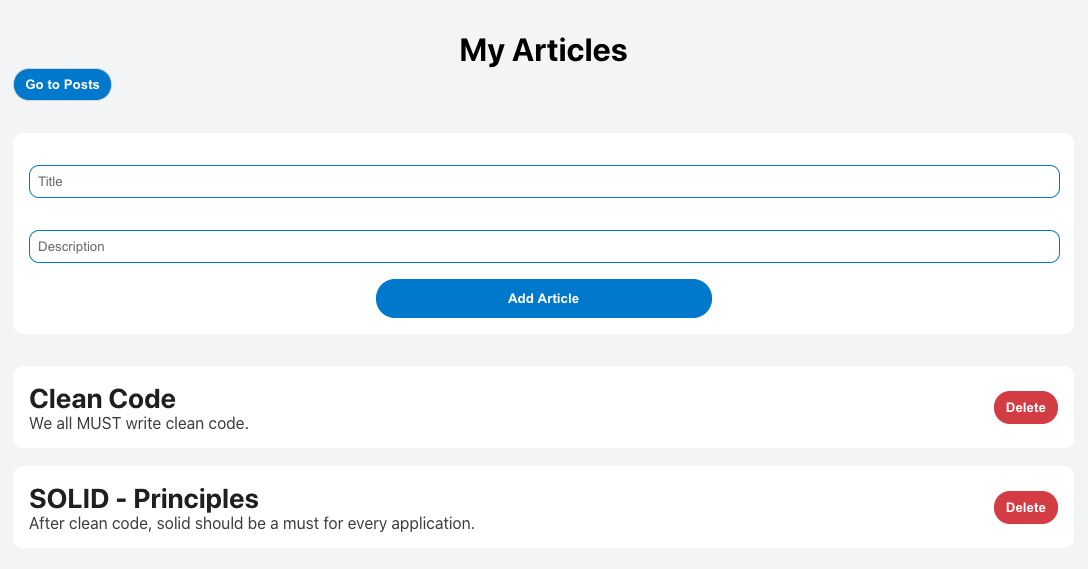
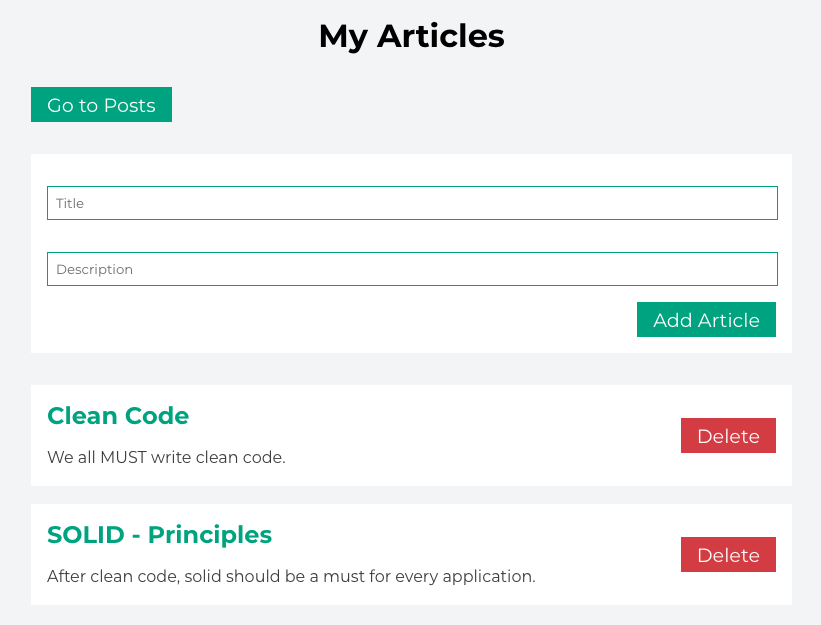
Few styles updates

diff --git a/src/index.css b/src/index.css
@@ -1,8 +1,8 @@
+@import url("https://fonts.googleapis.com/css2?family=Montserrat:wght@400;700&display=swap");
+
 body {
+  background: #f5f6f7;
   margin: 0;
-  font-family: -apple-system, BlinkMacSystemFont, "Segoe UI", "Roboto", "Oxygen",
-    "Ubuntu", "Cantarell", "Fira Sans", "Droid Sans", "Helvetica Neue",
-    sans-serif;
   -webkit-font-smoothing: antialiased;
   -moz-osx-font-smoothing: grayscale;
 }
@@ -12,9 +12,47 @@ code {
     monospace;
 }
 
+* {
+  margin: 0;
+  padding: 0;
+  font-family: Montserrat, sans-serif;
+}
+
 button {
-  padding: 0.5rem 0.7rem;
-  border-radius: 20px;
-  border: 1px solid #dcdcdc;
-  font-weight: bold;
+  background: #1aab8a;
+  color: #fff;
+  border: none;
+  position: relative;
+  height: 35px;
+  font-size: 1.2em;
+  padding: 0 1rem;
+  cursor: pointer;
+  transition: 800ms ease all;
+  outline: none;
+}
+button:hover {
+  background: transparent;
+  color: #1aab8a;
+}
+button:before,
+button:after {
+  content: "";
+  position: absolute;
+  top: 0;
+  right: 0;
+  height: 2px;
+  width: 0;
+  background: #1aab8a;
+  transition: 400ms ease all;
+}
+button:after {
+  right: inherit;
+  top: inherit;
+  left: 0;
+  bottom: 0;
+}
+button:hover:before,
+button:hover:after {
+  width: 100%;
+  transition: 800ms ease all;
 }

diff --git a/src/components/ArticleItem.css b/src/components/ArticleItem.css
@@ -1,39 +1,41 @@
-.Article {
+.ArticleItem {
   display: flex;
   justify-content: space-between;
   align-items: center;
   padding: 1rem;
   background: #fff;
-  border-radius: 10px;
   margin-bottom: 1rem;
 }
 
-.Article:not(:last-child) {
+.ArticleItem:not(:last-child) {
   border-bottom: 2px solid #f5f6f7;
 }
 
-.Article h1 {
-  color: #222;
+.ArticleItem div > h1 {
+  color: #1aab8a;
   text-transform: capitalize;
   font-weight: 700;
-  font-size: 1.7rem;
+  font-size: 1.5rem;
 }
 
-.Article p {
-  padding-right: 1rem;
+.ArticleItem div > p {
+  margin-top: 1rem;
+  padding-right: 1.5rem;
+  text-align: justify;
   color: #444;
+  line-height: 1.5rem;
 }
 
-.Article button {
-  padding: 0.5rem 0.7rem;
-  border: 1px solid #d34b4b;
+.ArticleItem > button {
   background: #d34b4b;
-  color: #fff;
-  border-radius: 20px;
-  cursor: pointer;
-  outline: none;
 }
 
-.Article button:hover {
-  background: #e06a6a;
+.ArticleItem > button:hover {
+  background: transparent;
+  color: #d34b4b;
+}
+
+.ArticleItem > button:before,
+.ArticleItem > button:after {
+  background: #d34b4b;
 }

diff --git a/src/components/AddArticle.css b/src/components/AddArticle.css
@@ -6,7 +6,6 @@
   flex-direction: column;
   align-items: center;
   justify-content: center;
-  border-radius: 10px;
 }
 
 .AddArticle input {
@@ -14,28 +13,10 @@
   margin: 1rem auto;
   width: calc(100% - 1rem);
   padding: 0.5rem;
-  border: 1px solid #0784d2;
-  border-radius: 10px;
+  border: 1px solid #1aab8a;
   outline: none;
 }
 
 .AddArticle button {
-  width: 21rem;
-  padding: 0.7rem;
-  border: 1px solid #0784d2;
-  background: #0784d2;
-  color: #fff;
-  border-radius: 20px;
-  cursor: pointer;
-  outline: none;
-}
-
-.AddArticle button:hover {
-  background: #0e94e8;
-}
-
-.AddArticle button:disabled {
-  background: #d8d8d8;
-  border: 1px solid #d8d8d8;
-  cursor: not-allowed;
+  align-self: flex-end;
 }

diff --git a/src/pages/Posts.css b/src/pages/Posts.css
@@ -1,24 +1,13 @@
 .Posts {
-  padding: 2rem;
+  padding: 1rem 2rem;
+}
+
+.Posts > h1 {
+  text-align: center;
+  margin-bottom: 2rem;
 }
 
 .Posts__buttonsContainer {
   display: flex;
   justify-content: space-between;
-}
-
-.Posts__buttonsContainer button {
-  background-color: #0784d2;
-  border: 1px solid #dcdcdc;
-  color: #fff;
-  font-weight: bold;
-  cursor: pointer;
-}
-
-.Posts__buttonsContainer button:hover {
-  background-color: #0e94e8;
-}
-
-.Posts__buttonsContainer button:last-child {
-  margin-left: 0 !important;
 }

diff --git a/src/pages/Articles.css b/src/pages/Articles.css
@@ -1,21 +1,10 @@
-main {
+.Articles {
   margin: auto;
   max-width: 1200px;
-  padding: 2rem 1rem;
+  padding: 1rem 2rem;
 }
 
-main > h1 {
+.Articles > h1 {
   text-align: center;
-}
-
-.Articles__button {
-  background-color: #0784d2;
-  border: 1px solid #dcdcdc;
-  color: #fff;
-  font-weight: bold;
-  cursor: pointer;
-}
-
-.Articles__button:hover {
-  background-color: #0e94e8;
+  margin-bottom: 2rem;
 }

diff --git a/src/components/PostItem.css b/src/components/PostItem.css
@@ -1,4 +1,4 @@
-.postItem {
+.PostItem {
   padding: 1rem;
   margin-bottom: 1.5rem;
   background: #fff;
@@ -7,9 +7,9 @@
   border-radius: 10px;
 }
 
-.postItem > h1 {
+.PostItem > h1 {
   font-size: 1.5rem;
   margin-bottom: 1rem;
   text-align: left;
-  color: #0784d2;
+  color: #1aab8a;
 }

diff --git a/src/store/post/types.ts b/src/store/post/types.ts
@@ -1,7 +1,7 @@
 import { Post } from "./post";
 
-export const GET_POSTS = 'GET_POSTS';
-export const ADD_POST = 'ADD_POST';
+export const GET_POSTS = 'posts/getPosts';
+export const ADD_POST = 'posts/addPosts';
 
 export type PostState = {
   posts: Post[];

diff --git a/src/components/ArticleItem.tsx b/src/components/ArticleItem.tsx
@@ -19,7 +19,7 @@ export const ArticleItem: FC<Props> = ({ article, removeArticle }) => {
   );
 
   return (
-    <div className="Article">
+    <div className="ArticleItem">
       <div>
         <h1>{article.title}</h1>
         <p>{article.body}</p>

diff --git a/src/store/article/types.ts b/src/store/article/types.ts
@@ -1,2 +1,2 @@
-export const ADD_ARTICLE = "ADD_ARTICLE";
-export const REMOVE_ARTICLE = "REMOVE_ARTICLE";
+export const ADD_ARTICLE = "articles/addArticle";
+export const REMOVE_ARTICLE = "articles/removeArticle";

diff --git a/src/components/PostItem.tsx b/src/components/PostItem.tsx
@@ -9,7 +9,7 @@ type Props = {
 
 const PostItem = ({ post }: Props) => {
   return (
-    <div className="postItem">
+    <div className="PostItem">
       <h1>
         #{post.id} {post.title}
       </h1>

diff --git a/src/App.tsx b/src/App.tsx
@@ -2,8 +2,6 @@ import React, { FC } from "react";
 
 import Routes from "./routes";
 
-import "./App.css";
-
 const App: FC = () => {
   return (
     <div className="app">
